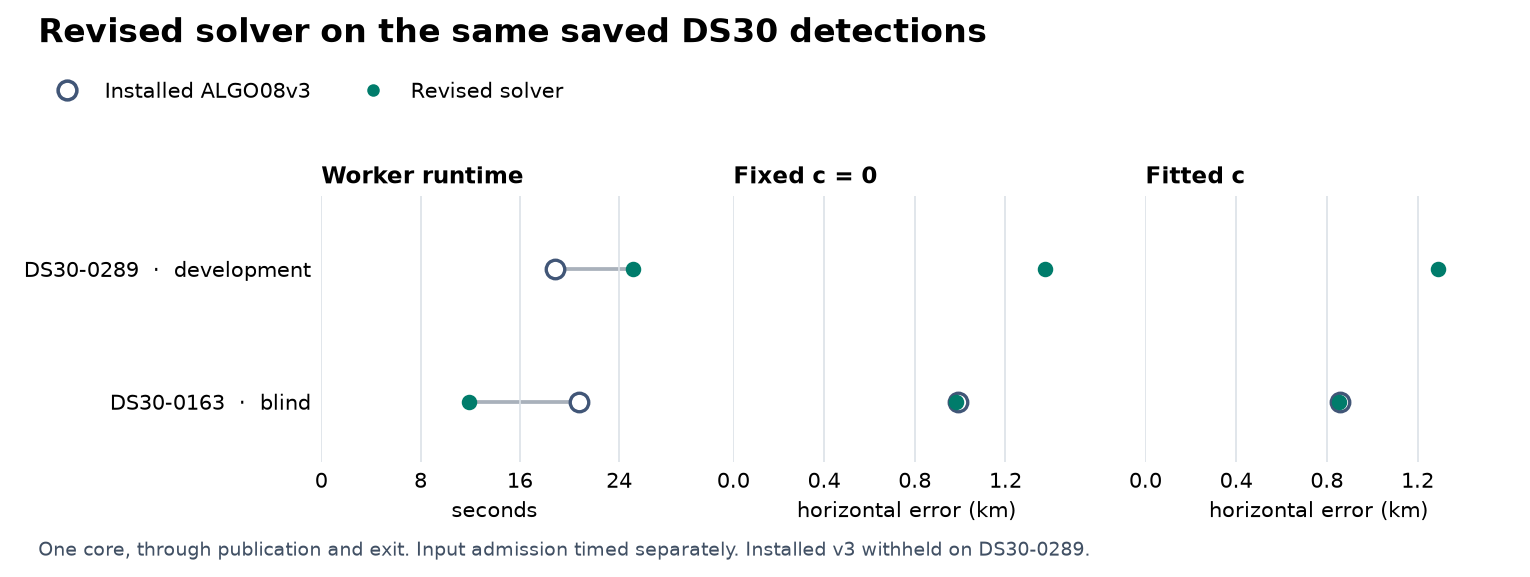
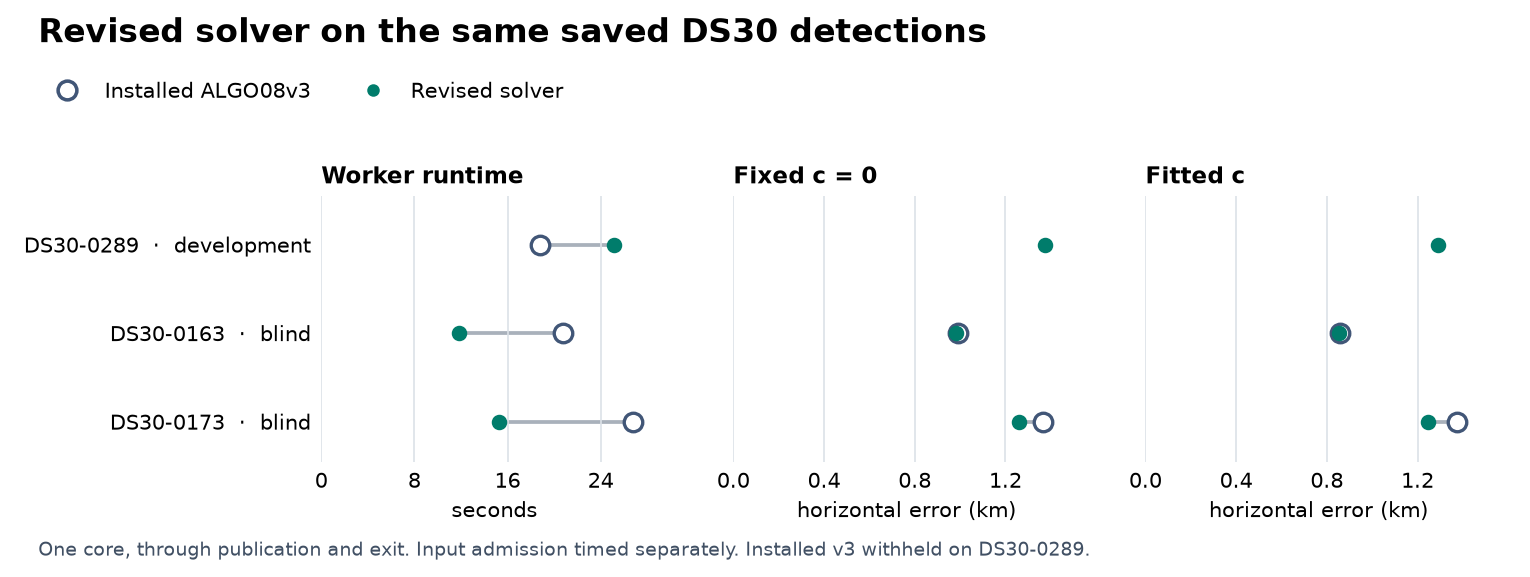
Publish two blind DS30 solver pairs, measured Cairo timing and geographic controls

diff --git a/reports/ALGO08/v3/release-stage-budget.md b/reports/ALGO08/v3/release-stage-budget.md
@@ -30,7 +30,7 @@ The 100 v3 processes used **7,665.81 CPU s in 10,413.92 elapsed s** on one core.
 | Half | 2.00× |
 | None | 1.48× (rounded up) |
 
-These scenarios scale the original process clocks and include all five jobs that failed. A change in fix rate can also change the work performed. Single-core CPU and wall time on matched inputs therefore both matter when evaluating the next candidate. [Original 100 timing pairs](https://github.com/misko/leo-tracker-reduxredux/blob/f881655010564064b4f584e99232694581ac58f2/reports/ALGO08/v3/measurements/release-stage-budget.json) · [Calculate both gates](https://github.com/misko/leo-tracker-reduxredux/blob/52081f623cbb03b4adf30dcc85abb34772bad20c/reports/ALGO08/v3/intake_scale_check.py)
+These scenarios scale the original process clocks and include all five jobs that failed. A change in fix rate can also change the work performed. Single-core CPU and wall time on matched inputs therefore both matter when evaluating the next candidate. [Original 100 timing pairs](https://github.com/misko/leo-tracker-reduxredux/blob/f881655010564064b4f584e99232694581ac58f2/reports/ALGO08/v3/measurements/release-stage-budget.json) · [Calculate both gates](https://github.com/misko/leo-tracker-reduxredux/blob/40f37dff103e916237d62b301690fdf50d5235a7/reports/ALGO08/v3/intake_scale_check.py)
 
 ### A throughput target for small receiver trials
 
@@ -94,7 +94,11 @@ The later combined solver took **25.139 s** on the original saved DS30-0289 pack
 
 On the combined solver's independently assigned DS30-0163 case, the installed raw process took **103.929 s** on 8.356 GB. Paying **13.697 s** for saved analysis and its measured admission leaves **38.267 s** to deliver detections, or **218.4 MB/s**. The successful blind replay used the recorded 20 ms detections. The runtime and position error from processing that full waveform with the shorter receiver remain unmeasured. [Case and timing clocks](https://github.com/misko/leo-tracker-reduxredux/blob/06ed7d19135d6555271f10965083c6344f727e7f/reports/ALGO08/v3/ds30-0163-combined.md)
 
-If the receiver delivers a uniform effective rate and each recording keeps its measured downstream cost, these two blind cases need **342.8 MB/s** to pass both aggregate timing gates. The rate includes startup and detection publication. The paired median sets the threshold, with the summed-time threshold just below at **342.3 MB/s**. DS30-0289 originally had zero input pages resident. Throughput measured on warm DS30-0016 files does not account for that original storage condition. [Blind fix and withholding clocks](https://github.com/misko/leo-tracker-reduxredux/blob/8dc6a74bf97d12a4b90b74cb531d98ea13ff5cb9/reports/ALGO08/v3/nomination-handoff-0289-local.md) · [Reproducible budget and original byte bounds](https://github.com/misko/leo-tracker-reduxredux/blob/52081f623cbb03b4adf30dcc85abb34772bad20c/reports/ALGO08/v3/intake_scale_check.py)
+For blind DS30-0173 the original process took **101.711 s** on **8.411 GB**. Its measured saved solver and admission cost **16.016 s**, leaving **34.840 s** for intake, or **241.4 MB/s**. To meet both 2× timing gates across DS30-0163 and DS30-0173, a uniform receiver would need **229.5 MB/s** through detection publication. For comparison, the revised integrated worker on resident DS30-0016 reached its standard detector file in **4.186 s**, or **236.9 MB/s** on 0.992 GB. This smaller recording was entirely resident. The two larger originals had 28.6% and 1.1% of pages resident at their historical baseline launches. Gate qualification still depends on matched full recordings and on the shorter detections preserving the downstream fix and accuracy. [Second blind recording](https://github.com/misko/leo-tracker-reduxredux/blob/40f37dff103e916237d62b301690fdf50d5235a7/reports/ALGO08/v3/ds30-0173-combined.md) · [Original-file worker](https://github.com/misko/leo-tracker-reduxredux/blob/1245957b4d0fe2eba5880d63ca31c5b527e0740c/reports/ALGO08/v3/combined-successor-original.md) · [Calculate both gates](https://github.com/misko/leo-tracker-reduxredux/blob/40f37dff103e916237d62b301690fdf50d5235a7/reports/ALGO08/v3/intake_scale_check.py)
+
+The original processes spent **43.740 s** and **38.645 s** off CPU. At least **24.145 s** and **10.316 s**, respectively, occurred before detector publication, since even assigning every measured CPU second to intake leaves that much of its elapsed interval. If each new run retained all of its original off-CPU time, then even free receiver computation plus the measured saved-solver and setup **CPU** would give at most **1.842× summed** on this pair. The calculation charges waiting once. It also assumes the same downstream CPU demand. A benchmark that starts with warm files can hide this constraint. Cold storage and scheduling can change independently of the algorithm, so their measured costs belong alongside the CPU comparison. [Original clocks](https://github.com/misko/leo-tracker-reduxredux/blob/f881655010564064b4f584e99232694581ac58f2/reports/ALGO08/v3/measurements/release-stage-budget.json) · [Reproduce the bound](https://github.com/misko/leo-tracker-reduxredux/blob/40f37dff103e916237d62b301690fdf50d5235a7/reports/ALGO08/v3/intake_scale_check.py)
+
+If the receiver delivers a uniform effective rate and each recording keeps its measured downstream cost, these two blind cases need **342.8 MB/s** to pass both aggregate timing gates. The rate includes startup and detection publication. The paired median sets the threshold, with the summed-time threshold just below at **342.3 MB/s**. DS30-0289 originally had zero input pages resident. Throughput measured on warm DS30-0016 files does not account for that original storage condition. [Blind fix and withholding clocks](https://github.com/misko/leo-tracker-reduxredux/blob/8dc6a74bf97d12a4b90b74cb531d98ea13ff5cb9/reports/ALGO08/v3/nomination-handoff-0289-local.md) · [Reproducible budget and original byte bounds](https://github.com/misko/leo-tracker-reduxredux/blob/40f37dff103e916237d62b301690fdf50d5235a7/reports/ALGO08/v3/intake_scale_check.py)
 
 The numerical solve accounted for 12.718 s on DS30-0419 and 22.831 s on DS30-0289. How much faster would the receiver still need to be if we reduced just that time? The calculation below keeps admission, publication and process overhead at their measured costs. It charges the work to produce the additional fix on DS30-0289.
 
@@ -107,13 +111,13 @@ The numerical solve accounted for 12.718 s on DS30-0419 and 22.831 s on DS30-028
 | 4× | 220.8 MB/s |
 | Zero solve time (limiting case) | 197.3 MB/s |
 
-For scale, the same resident 13-file DS30-0016 recording reached the early detection hook at **196.3 MB/s** in one process and **295.4 MB/s** in a fresh process using normal lookahead. The earlier integrated process reached its standard detector-file boundary at **212.0 MB/s**. The two hook timings fall on opposite sides of the 250.5 MB/s row. Each estimate assumes a uniform rate across the two blind recordings and unchanged downstream work for the new detections. A measured raw-to-exit pair on the same recording tests both assumptions. [Reproduce the calculation](https://github.com/misko/leo-tracker-reduxredux/blob/52081f623cbb03b4adf30dcc85abb34772bad20c/reports/ALGO08/v3/intake_scale_check.py) · [Full detector timing](https://github.com/misko/leo-tracker-reduxredux/blob/a31af9a2cfa2c391aad2d15193142f14305e78d0/reports/ALGO08/v3/original-full-detector-boundary.md) · [Matched full-file scheduling trial](https://github.com/misko/leo-tracker-reduxredux/blob/a31af9a2cfa2c391aad2d15193142f14305e78d0/reports/ALGO08/v3/resident-original-demand.md)
+For scale, the same resident 13-file DS30-0016 recording reached the early detection hook at **196.3 MB/s** in one process and **295.4 MB/s** in a fresh process using normal lookahead. The earlier integrated process reached its standard detector-file boundary at **212.0 MB/s**. The two hook timings fall on opposite sides of the 250.5 MB/s row. Each estimate assumes a uniform rate across the two blind recordings and unchanged downstream work for the new detections. A measured raw-to-exit pair on the same recording tests both assumptions. [Reproduce the calculation](https://github.com/misko/leo-tracker-reduxredux/blob/40f37dff103e916237d62b301690fdf50d5235a7/reports/ALGO08/v3/intake_scale_check.py) · [Full detector timing](https://github.com/misko/leo-tracker-reduxredux/blob/a31af9a2cfa2c391aad2d15193142f14305e78d0/reports/ALGO08/v3/original-full-detector-boundary.md) · [Matched full-file scheduling trial](https://github.com/misko/leo-tracker-reduxredux/blob/a31af9a2cfa2c391aad2d15193142f14305e78d0/reports/ALGO08/v3/resident-original-demand.md)
 
 ### Throughput from one to four original files
 
 On resident DS30-0016, four files contained 314.078 MB. The detection-only worker published their signed packet in **1.330 and 1.344 s**, or **236.1 and 233.7 MB/s** with startup. Subtracting the one-file measurements gave **328.7 and 334.2 MB/s** for the three additional files. All measured detections matched their corresponding rows from the full 20/8 ms receiver. These are original waveform-to-detection clocks. [Nested prefixes, both execution orders and detector checks](https://github.com/misko/leo-tracker-reduxredux/blob/a31af9a2cfa2c391aad2d15193142f14305e78d0/reports/ALGO08/v3/original-prefix-scaling.md)
 
-Before scoring the comparison, we fixed a linear extrapolation for each execution order. Those lines predicted **3.392 and 3.372 s** to publish detections for the full 991.735 MB recording. The previously measured integrated worker took **4.678 s** at its own detection-file boundary, including authenticated acquisition of **3.514 s**. The lines underestimated acquisition alone by **0.536–0.537 s** and the full detection-file boundary by **1.286–1.306 s**. The detection-only worker writes the verified packet immediately. In the integrated worker, the file appeared **0.778 s after** the receiver’s selection record. A rate from the marginal three files misses costs at that publication boundary. [Comparison rule](https://github.com/misko/leo-tracker-reduxredux/blob/789c3c00e47ce2498953521efddd34149b179b56/reports/ALGO08/v3/intake-scale-check-protocol.md) · [Whole-recording clocks](https://github.com/misko/leo-tracker-reduxredux/blob/789c3c00e47ce2498953521efddd34149b179b56/reports/ALGO08/v3/legacy-verify-original.md) · [Run the calculation](https://github.com/misko/leo-tracker-reduxredux/blob/52081f623cbb03b4adf30dcc85abb34772bad20c/reports/ALGO08/v3/intake_scale_check.py)
+Before scoring the comparison, we fixed a linear extrapolation for each execution order. Those lines predicted **3.392 and 3.372 s** to publish detections for the full 991.735 MB recording. The previously measured integrated worker took **4.678 s** at its own detection-file boundary, including authenticated acquisition of **3.514 s**. The lines underestimated acquisition alone by **0.536–0.537 s** and the full detection-file boundary by **1.286–1.306 s**. The detection-only worker writes the verified packet immediately. In the integrated worker, the file appeared **0.778 s after** the receiver’s selection record. A rate from the marginal three files misses costs at that publication boundary. [Comparison rule](https://github.com/misko/leo-tracker-reduxredux/blob/789c3c00e47ce2498953521efddd34149b179b56/reports/ALGO08/v3/intake-scale-check-protocol.md) · [Whole-recording clocks](https://github.com/misko/leo-tracker-reduxredux/blob/789c3c00e47ce2498953521efddd34149b179b56/reports/ALGO08/v3/legacy-verify-original.md) · [Run the calculation](https://github.com/misko/leo-tracker-reduxredux/blob/40f37dff103e916237d62b301690fdf50d5235a7/reports/ALGO08/v3/intake_scale_check.py)
 
 We also ran the same detection-only worker through all 13 original files. It published in **5.053 s**, reproducing the full integrated worker's detector file byte for byte. Its inner acquisition took **4.666 s** versus **3.509 s** in the earlier integrated run. It recorded 21 process-wide major faults, while all the waveform and index pages remained resident. The fault source is unknown. The full measurement confirms that the shorter prefixes underestimated elapsed time even with the detection-only publication path. [Full detector-only measurement and exact boundaries](https://github.com/misko/leo-tracker-reduxredux/blob/a31af9a2cfa2c391aad2d15193142f14305e78d0/reports/ALGO08/v3/original-full-detector-boundary.md)
 

diff --git a/reports/ALGO08/v3/compatible-archive-transfer.md b/reports/ALGO08/v3/compatible-archive-transfer.md
@@ -1,12 +1,18 @@
 # Single-core ALGO08v3 successor on original recordings and blind solver cases
 
+**Faster publication on the complete DS30-0016 recording.** Drawing the four orbit plots with the validated Cairo renderer reduced worker time from **7.862 to 7.447 s**, versus **10.745 s** for installed v3. All position estimates, RF residuals, satellite assignments, grid cells and the fit path matched the previous worker. All eight PNGs matched the independently validated Cairo output. With the previously measured 0.601 s withholding on DS30-0107, the estimated two-case speedup is **1.521× summed and 1.827× at the paired median**. DS30-0107 did not run again. This estimate is **0.397 s** short of 1.6× by total time. [Measured positive, visual validation and modeled pair](https://github.com/misko/leo-tracker-reduxredux/blob/40f37dff103e916237d62b301690fdf50d5235a7/reports/ALGO08/v3/combined-successor-cairo.md)
+
+One solver fix removes duplicate work on recordings like DS30-0016. When the two-centre scout cannot choose calibration seeds, the original candidate completes ordinary ranking twice. Returning to the ordinary producer immediately after the scout declines reduced median cold-stage time by **114 ms** in reversed comparisons. The ranked candidates, both finalist scores, winner and both reusable checkpoints matched. This is a saving measured within the cold stage. The full Cairo worker above still includes the duplicate rank. [Scoped implementation, rank and checkpoint checks](https://github.com/misko/leo-tracker-reduxredux/blob/40f37dff103e916237d62b301690fdf50d5235a7/reports/ALGO08/v3/single-rank-refusal-trial.md)
+
 **End to end on two complete physical recordings.** The revised receiver and solver took **8.464 s** from worker launch to exit, versus **12.242 s** for installed ALGO08v3. The summed speedup was **1.446×**, and the reciprocal median of paired time ratios was **1.764×**. Both fixed on DS30-0016 and withheld on DS30-0107. Fixed-zero / fitted position errors on DS30-0016 were **490 / 980 m** versus **1,644 / 1,661 m** for installed v3. The two original recordings were resident in memory. The candidate's separate research admission and startup probes took another **5.108 s** across the two successful runs, bringing its observed wall time including those steps to **13.572 s**. The primary comparison uses the archived installed worker clocks. [Input custody, timing boundaries and output checks](https://github.com/misko/leo-tracker-reduxredux/blob/1245957b4d0fe2eba5880d63ca31c5b527e0740c/reports/ALGO08/v3/combined-successor-original.md)
 
-**First blind comparison of the revised solver.** Both solvers fixed on DS30-0163 using identical signed detections. The revised solver took **11.866 s** versus **20.767 s** through publication and exit, or **1.75×**. Fixed-zero error was **982 vs 989 m** and fitted error **854 vs 859 m**. All 3,055 assignments and roles matched in each arm, and both published the full grid, path and eight PNGs. Charging common input setup to each gives **13.697 vs 22.598 s** (1.65×). An import-only first attempt ended after 0.053 s, which reversed the planned timing order. This is one blind, saved-input result. [Input, order deviation and publication receipts](https://github.com/misko/leo-tracker-reduxredux/blob/06ed7d19135d6555271f10965083c6344f727e7f/reports/ALGO08/v3/ds30-0163-combined.md)
+**Two independent blind comparisons of the revised solver.** Both solvers fixed on DS30-0163 and DS30-0173 using identical original 20 ms detections. The revised solver took **27.122 s** through publication and exit across the pair, versus **47.563 s** for installed v3. The speedups were **1.754× by total time and 1.753× at the paired median**. Charging the measured common input setup to each gives **1.688× and 1.684×**. On DS30-0163 the revised solver reduced fixed-zero / fitted error by 7 / 5 m and preserved all 3,055 assignments in each arm. On DS30-0173 the reductions were **109 / 127 m**. It dropped 132 of 2,590 owners and conditional frequency RMS increased by about 2 Hz. Both cases published the complete grid, path and eight PNGs. A 0.053 s import-only first attempt reversed the timing order on DS30-0163. DS30-0173 ran in its prescribed order. [First blind pair](https://github.com/misko/leo-tracker-reduxredux/blob/06ed7d19135d6555271f10965083c6344f727e7f/reports/ALGO08/v3/ds30-0163-combined.md) · [Second pair, individual errors and pooled gates](https://github.com/misko/leo-tracker-reduxredux/blob/40f37dff103e916237d62b301690fdf50d5235a7/reports/ALGO08/v3/ds30-0173-combined.md)
 
-![Revised solver and ALGO08v3 runtime and position error on development DS30-0289 and blind DS30-0163](development/combined-saved-pairs.png)
+![Revised solver and ALGO08v3 runtime and position error on development DS30-0289 and blind DS30-0163 and DS30-0173](development/combined-saved-pairs.png)
 
 **What can change when the receiver gets faster.** On DS30-0008 we changed only the first 64 of 6,772 visits from all-20 ms detections to measured 20/8 ms detections and ran the same guarded solver. Both produced a fix. Error increased from **1,086 to 1,363 m** at fixed zero and from **1,080 to 1,191 m** with fitted calibration. Both still improved on the installed v3 result of 1,639 / 1,512 m. All 525 satellite reassignments occurred later, among unchanged measurements, and involved the same pair of satellites. Eleven intact curves accounted for 503 of those changes. Only six switched rows had weak receiver margins. This is a reason to test ambiguity in the satellite assignments as well as checking the receiver's signal strength. [Matched full-solver comparison, costs and satellite roles](https://github.com/misko/leo-tracker-reduxredux/blob/1245957b4d0fe2eba5880d63ca31c5b527e0740c/reports/ALGO08/v3/0008-prefix-transfer.md)
+
+At the first calibrated centre, a survey-blind check of all feasible satellites found two almost tied curves among 111 on DS30-0008. Both identified the exact competing satellite pair later seen in the switched assignments. They accounted for **60 of the 503** switched observations on intact curves. The other nine curves lacked either candidate at this early state. The ordinary compact scorer had already retained both competitors on the flagged curves. The full check cost **0.093 CPU s** on DS30-0008 and **0.033 CPU s** on DS30-0316. The latter recording had no curves with two eligible candidates. This readout can nominate a pair for rechecking. The early winner was the opposite of the final all-20 ms assignment on both flagged curves. [Early readout and control](https://github.com/misko/leo-tracker-reduxredux/blob/40f37dff103e916237d62b301690fdf50d5235a7/reports/ALGO08/v3/pre-finish-margin.md) · [Which alternatives the terminal traces preserved](https://github.com/misko/leo-tracker-reduxredux/blob/40f37dff103e916237d62b301690fdf50d5235a7/reports/ALGO08/v3/0008-prefix-ambiguity.md)
 
 **Revised solver on DS30-0289.** On the same original saved detections, using two initial centre fits and the revised grid computation cut runtime from **26.770 to 25.139 s**. Fixed-zero position error fell from **1,616 to 1,376 m** and fitted error from **1,542 to 1,292 m**. Both versions published all eight PNGs. Installed ALGO08v3 withheld in **18.820 s**. This recording was used to assess the revision, so its result is development evidence. [Matched solver comparison](https://github.com/misko/leo-tracker-reduxredux/blob/52081f623cbb03b4adf30dcc85abb34772bad20c/reports/ALGO08/v3/combined-successor-0289.md)
 
@@ -18,7 +24,11 @@
 
 **Solver conditioning.** Rescaling the fallback linear system preserved the original iteration counts and reproduced residuals within 1.49 × 10⁻⁸ Hz on saved operands. The additional numerical checks made the tested fallback slower on both cases, by 37% on DS30-0008 and 65% on the simulated South recording. The existing fallback remains the faster measured option. [Numerical controls and paid timings](https://github.com/misko/leo-tracker-reduxredux/blob/a31af9a2cfa2c391aad2d15193142f14305e78d0/reports/ALGO08/v3/equilibrated-condition-fallback.md)
 
+Two other experiments clarified where further time can be saved. Sparse carrier ranking preserved every signed native detection across 212 scheduled short lanes, but its measured per-lane saving projects to only **20–26 ms** on DS30-0016. Reusing causal orbit-body comparisons preserved both DS30-0289 positions and all 4,794 ordered assignments per arm, including support repair, but the preparation itself cost **14 ms more CPU** with setup. [Native receiver experiment](https://github.com/misko/leo-tracker-reduxredux/blob/40f37dff103e916237d62b301690fdf50d5235a7/reports/ALGO08/v3/short-rank.md) · [Orbit preparation and exact fallback checks](https://github.com/misko/leo-tracker-reduxredux/blob/40f37dff103e916237d62b301690fdf50d5235a7/reports/ALGO08/v3/causal-live-election.md)
+
 **Missing-region challenge at a different location.** In the saved South simulation, the true receiver lay **100 m outside** the offered square. Both installed v3 and the frozen candidate published the same false fix. The fixed-zero and fitted positions landed **242 m and 183 m inside** the boundary, so the exterior check never ran. Their respective horizontal errors were **817 m and 1,102 m**. The candidate ran in **5.717 s** versus **7.891 s** for v3. This challenge demonstrates a geographical failure shared by both solvers. [Matched offsite omission, grid, assignments and output images](https://github.com/misko/leo-tracker-reduxredux/blob/789c3c00e47ce2498953521efddd34149b179b56/reports/ALGO08/v3/nomination-handoff-south.md)
+
+The revised two-centre solver also reproduced the installed positions on both South offers: the near-boundary fix when the region contained the simulated site, and the false fix when it was missing. On the missing-region offer the revised solver took **5.993 s** versus the installed solver's **7.891 s**. All eight PNGs and the complete 137-point numerical grid verified on each offer. [Containing and omitted offers on the revised solver](https://github.com/misko/leo-tracker-reduxredux/blob/40f37dff103e916237d62b301690fdf50d5235a7/reports/ALGO08/v3/combined-successor-south.md)
 
 **First analysis of the original DS30 files.** On two complete physical recordings, combining the decoder, orbit-selection and numerical-grid changes reduced elapsed time from **8.806 s to 8.319 s**. Installed ALGO08v3 took **12.242 s** on those recordings. The combined candidate reached **1.47× by total time and 1.84× at the paired median**. Every build withheld on DS30-0107 and fixed on DS30-0016. The candidate's fixed-zero and fitted errors were **490 m and 980 m**, versus **1,644 m and 1,661 m** for installed v3. It reproduced the previous candidate's complete numerical results and all eight PNGs. The recordings were resident and neither candidate received per-recording seek tables. [Combined first-use result and activation by recording](https://github.com/misko/leo-tracker-reduxredux/blob/788842c6363ca8318054784269673a42506afe48/reports/ALGO08/v3/legacy-first-map-finalist.md) · [Earlier first-use comparison](https://github.com/misko/leo-tracker-reduxredux/blob/f881655010564064b4f584e99232694581ac58f2/reports/ALGO08/v3/legacy-first-use-original-panel.md)
 
